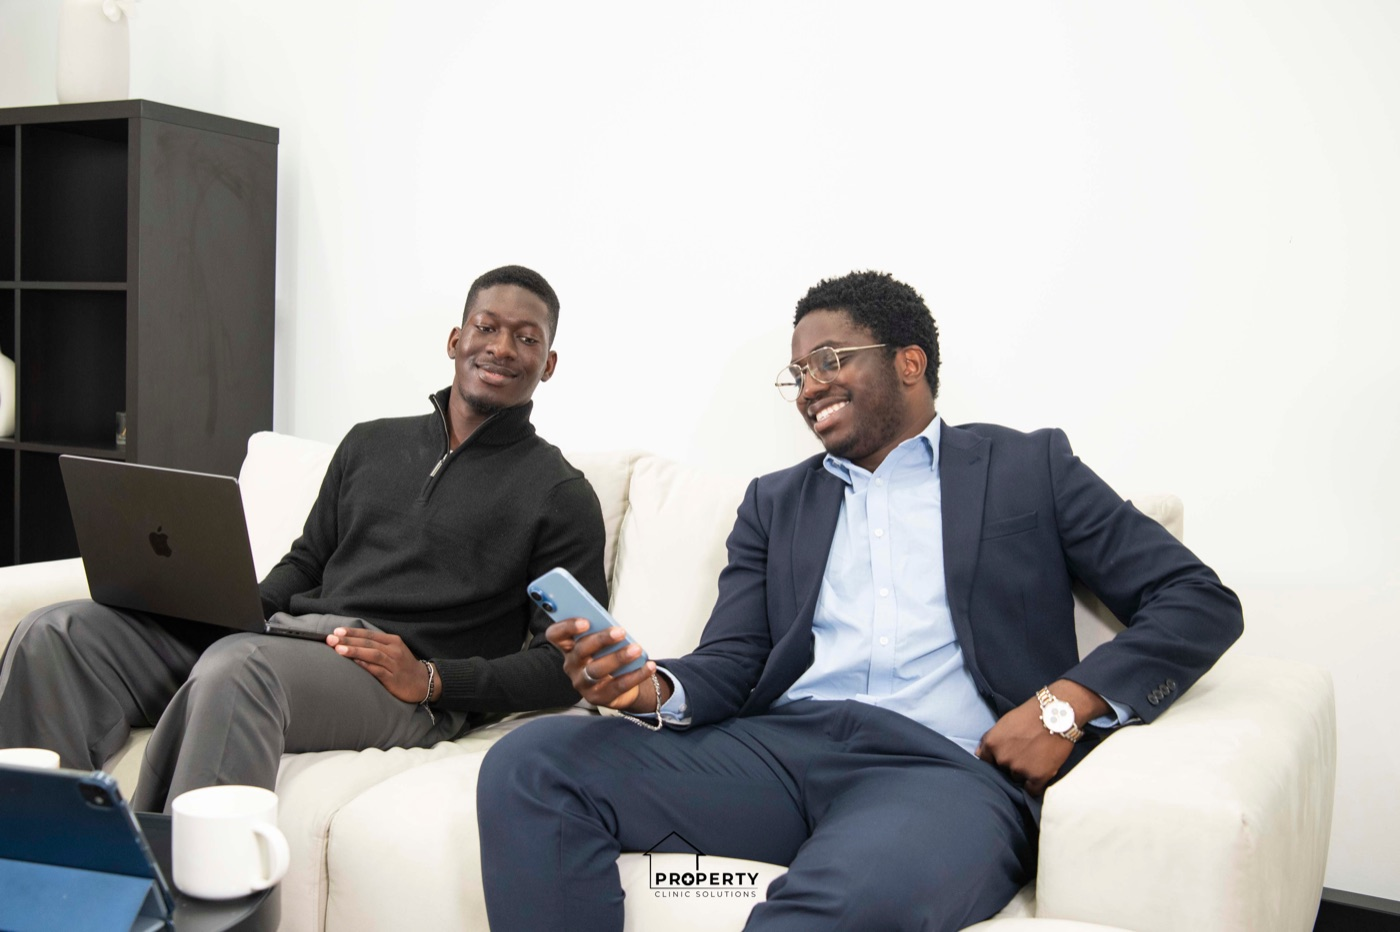
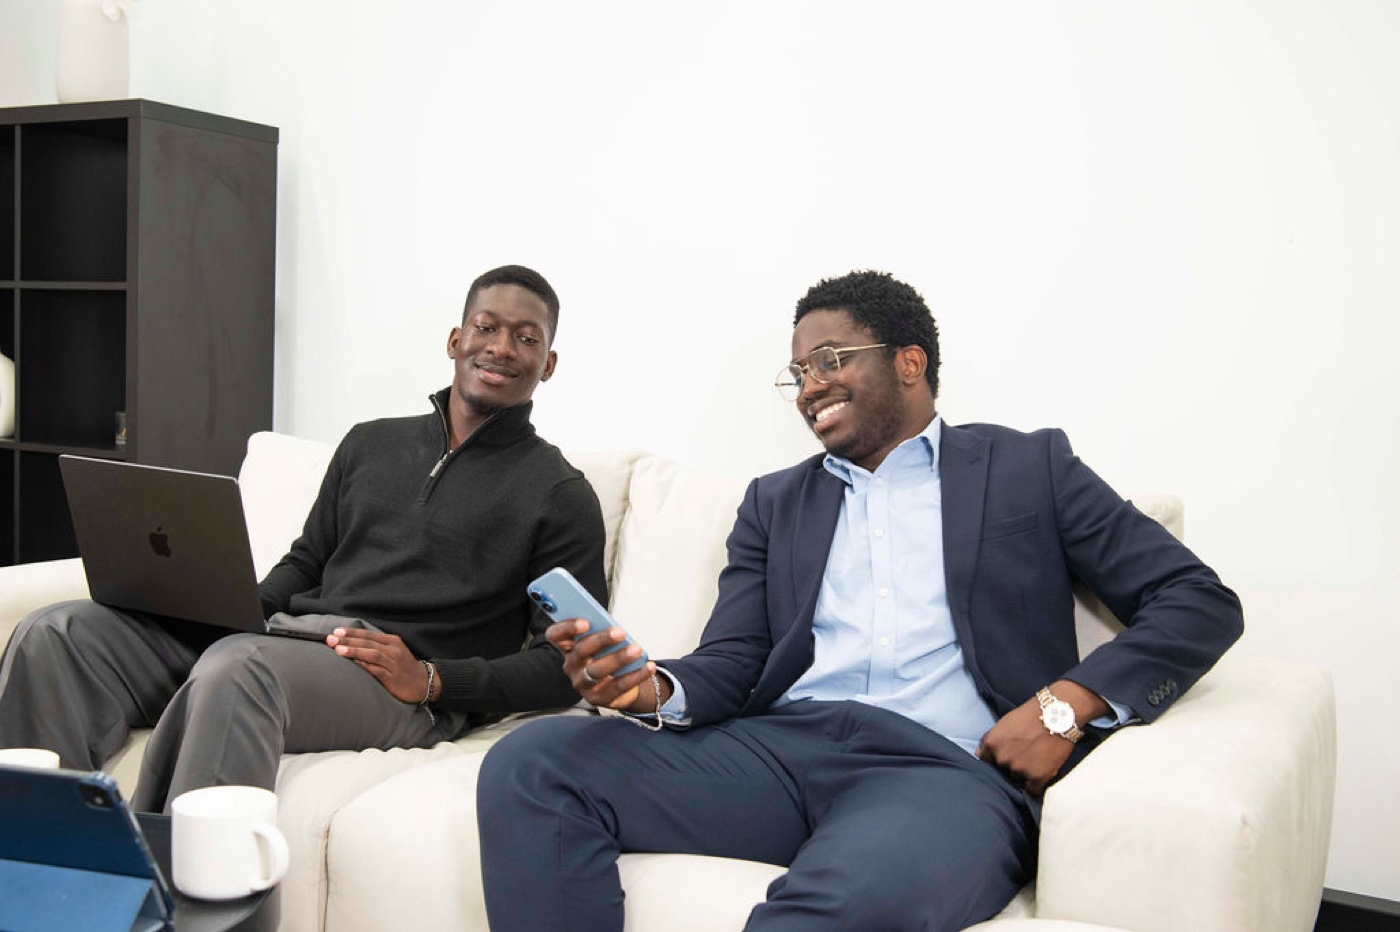
Update Why-PCS image (UK home interior) + refreshed team sofa photo

Changed region(s): [[0.4607, 0.9024, 0.5529, 0.9646]]

diff --git a/calculator.html b/calculator.html
@@ -23,16 +23,16 @@
 <link rel="stylesheet" href="_ds/pcs-design-system-269f6d9a-2c62-49e0-9664-5f46432df18c/tokens/spacing.css" />
 <link rel="stylesheet" href="_ds/pcs-design-system-269f6d9a-2c62-49e0-9664-5f46432df18c/tokens/base.css" />
 <link rel="stylesheet" href="_ds/pcs-design-system-269f6d9a-2c62-49e0-9664-5f46432df18c/styles.css" />
-<link rel="stylesheet" href="site.css?v=1781887479467" />
+<link rel="stylesheet" href="site.css?v=1781888496752" />
 <style> input[type=number]::-webkit-outer-spin-button, input[type=number]::-webkit-inner-spin-button { -webkit-appearance: none; margin: 0; } input[type=number]{ -moz-appearance: textfield; } </style>
 
 <script src="vendor/react.production.min.js"></script>
 <script src="vendor/react-dom.production.min.js"></script>
 <script src="_ds/pcs-design-system-269f6d9a-2c62-49e0-9664-5f46432df18c/_ds_bundle.js"></script>
-<script src="icons.js?v=1781887479467"></script>
-<script src="home-parts.js?v=1781887479467"></script>
-<script src="page-kit.js?v=1781887479467"></script>
-<script src="calculator.js?v=1781887479467"></script>
+<script src="icons.js?v=1781888496752"></script>
+<script src="home-parts.js?v=1781888496752"></script>
+<script src="page-kit.js?v=1781888496752"></script>
+<script src="calculator.js?v=1781888496752"></script>
 
 <script type="application/ld+json">
 { "@context": "https://schema.org", "@type": "FinancialService", "name": "Property Clinic Solutions Limited", "serviceType": "Mortgage calculator", "areaServed": "GB", "url": "https://propertyclinicsolutions.com/calculator", "disclaimer": "Your home may be repossessed if you do not keep up repayments on your mortgage." }

diff --git a/about.html b/about.html
@@ -23,14 +23,14 @@
 <link rel="stylesheet" href="_ds/pcs-design-system-269f6d9a-2c62-49e0-9664-5f46432df18c/tokens/spacing.css" />
 <link rel="stylesheet" href="_ds/pcs-design-system-269f6d9a-2c62-49e0-9664-5f46432df18c/tokens/base.css" />
 <link rel="stylesheet" href="_ds/pcs-design-system-269f6d9a-2c62-49e0-9664-5f46432df18c/styles.css" />
-<link rel="stylesheet" href="site.css?v=1781887479467" />
+<link rel="stylesheet" href="site.css?v=1781888496752" />
 
 <script src="vendor/react.production.min.js"></script>
 <script src="vendor/react-dom.production.min.js"></script>
 <script src="_ds/pcs-design-system-269f6d9a-2c62-49e0-9664-5f46432df18c/_ds_bundle.js"></script>
-<script src="icons.js?v=1781887479467"></script>
-<script src="home-parts.js?v=1781887479467"></script>
-<script src="page-kit.js?v=1781887479467"></script>
+<script src="icons.js?v=1781888496752"></script>
+<script src="home-parts.js?v=1781888496752"></script>
+<script src="page-kit.js?v=1781888496752"></script>
 
 <script type="application/ld+json">
 { "@context": "https://schema.org", "@type": "Organization", "name": "Property Clinic Solutions Limited", "url": "https://propertyclinicsolutions.com", "logo": "assets/logos/pcs-logo-horizontal.svg", "description": "Independent UK mortgage and protection brokerage.", "address": { "@type": "PostalAddress", "streetAddress": "1 Mychell House, Pincott Road", "addressLocality": "London", "postalCode": "SW19 2NN", "addressCountry": "GB" } }

diff --git a/buildings-contents.html b/buildings-contents.html
@@ -23,14 +23,14 @@
 <link rel="stylesheet" href="_ds/pcs-design-system-269f6d9a-2c62-49e0-9664-5f46432df18c/tokens/spacing.css" />
 <link rel="stylesheet" href="_ds/pcs-design-system-269f6d9a-2c62-49e0-9664-5f46432df18c/tokens/base.css" />
 <link rel="stylesheet" href="_ds/pcs-design-system-269f6d9a-2c62-49e0-9664-5f46432df18c/styles.css" />
-<link rel="stylesheet" href="site.css?v=1781887479467" />
+<link rel="stylesheet" href="site.css?v=1781888496752" />
 
 <script src="vendor/react.production.min.js"></script>
 <script src="vendor/react-dom.production.min.js"></script>
 <script src="_ds/pcs-design-system-269f6d9a-2c62-49e0-9664-5f46432df18c/_ds_bundle.js"></script>
-<script src="icons.js?v=1781887479467"></script>
-<script src="home-parts.js?v=1781887479467"></script>
-<script src="page-kit.js?v=1781887479467"></script>
+<script src="icons.js?v=1781888496752"></script>
+<script src="home-parts.js?v=1781888496752"></script>
+<script src="page-kit.js?v=1781888496752"></script>
 
 <script type="application/ld+json">
 { "@context": "https://schema.org", "@type": "FinancialService", "name": "Property Clinic Solutions Limited", "serviceType": "Buildings and contents insurance advice", "areaServed": "GB", "url": "https://propertyclinicsolutions.com/buildings-contents" }

diff --git a/buy-to-let.html b/buy-to-let.html
@@ -23,14 +23,14 @@
 <link rel="stylesheet" href="_ds/pcs-design-system-269f6d9a-2c62-49e0-9664-5f46432df18c/tokens/spacing.css" />
 <link rel="stylesheet" href="_ds/pcs-design-system-269f6d9a-2c62-49e0-9664-5f46432df18c/tokens/base.css" />
 <link rel="stylesheet" href="_ds/pcs-design-system-269f6d9a-2c62-49e0-9664-5f46432df18c/styles.css" />
-<link rel="stylesheet" href="site.css?v=1781887479467" />
+<link rel="stylesheet" href="site.css?v=1781888496752" />
 
 <script src="vendor/react.production.min.js"></script>
 <script src="vendor/react-dom.production.min.js"></script>
 <script src="_ds/pcs-design-system-269f6d9a-2c62-49e0-9664-5f46432df18c/_ds_bundle.js"></script>
-<script src="icons.js?v=1781887479467"></script>
-<script src="home-parts.js?v=1781887479467"></script>
-<script src="page-kit.js?v=1781887479467"></script>
+<script src="icons.js?v=1781888496752"></script>
+<script src="home-parts.js?v=1781888496752"></script>
+<script src="page-kit.js?v=1781888496752"></script>
 
 <script type="application/ld+json">
 { "@context": "https://schema.org", "@type": "FinancialService", "name": "Property Clinic Solutions Limited", "serviceType": "Buy to let mortgage advice", "areaServed": "GB", "url": "https://propertyclinicsolutions.com/buy-to-let", "disclaimer": "Your home may be repossessed if you do not keep up repayments on your mortgage. Most buy-to-let mortgages are not regulated by the Financial Conduct Authority." }

diff --git a/complaints.html b/complaints.html
@@ -19,14 +19,14 @@
 <link rel="stylesheet" href="_ds/pcs-design-system-269f6d9a-2c62-49e0-9664-5f46432df18c/tokens/spacing.css" />
 <link rel="stylesheet" href="_ds/pcs-design-system-269f6d9a-2c62-49e0-9664-5f46432df18c/tokens/base.css" />
 <link rel="stylesheet" href="_ds/pcs-design-system-269f6d9a-2c62-49e0-9664-5f46432df18c/styles.css" />
-<link rel="stylesheet" href="site.css?v=1781887479467" />
+<link rel="stylesheet" href="site.css?v=1781888496752" />
 
 <script src="vendor/react.production.min.js"></script>
 <script src="vendor/react-dom.production.min.js"></script>
 <script src="_ds/pcs-design-system-269f6d9a-2c62-49e0-9664-5f46432df18c/_ds_bundle.js"></script>
-<script src="icons.js?v=1781887479467"></script>
-<script src="home-parts.js?v=1781887479467"></script>
-<script src="page-kit.js?v=1781887479467"></script>
+<script src="icons.js?v=1781888496752"></script>
+<script src="home-parts.js?v=1781888496752"></script>
+<script src="page-kit.js?v=1781888496752"></script>
 </head>
 <body>
 <a href="#main" class="pcs-skip">Skip to content</a>

diff --git a/contact.html b/contact.html
@@ -23,7 +23,7 @@
 <link rel="stylesheet" href="_ds/pcs-design-system-269f6d9a-2c62-49e0-9664-5f46432df18c/tokens/spacing.css" />
 <link rel="stylesheet" href="_ds/pcs-design-system-269f6d9a-2c62-49e0-9664-5f46432df18c/tokens/base.css" />
 <link rel="stylesheet" href="_ds/pcs-design-system-269f6d9a-2c62-49e0-9664-5f46432df18c/styles.css" />
-<link rel="stylesheet" href="site.css?v=1781887479467" />
+<link rel="stylesheet" href="site.css?v=1781888496752" />
 <style>
   .pcs-textarea { width: 100%; min-height: 120px; resize: vertical; font: 400 16px/1.5 var(--font-sans); color: var(--text-strong);
     background: #fff; border: 1px solid var(--border-strong, #D3D7E0); border-radius: 12px; padding: 12px 14px; }
@@ -35,9 +35,9 @@
 <script src="vendor/react.production.min.js"></script>
 <script src="vendor/react-dom.production.min.js"></script>
 <script src="_ds/pcs-design-system-269f6d9a-2c62-49e0-9664-5f46432df18c/_ds_bundle.js"></script>
-<script src="icons.js?v=1781887479467"></script>
-<script src="home-parts.js?v=1781887479467"></script>
-<script src="page-kit.js?v=1781887479467"></script>
+<script src="icons.js?v=1781888496752"></script>
+<script src="home-parts.js?v=1781888496752"></script>
+<script src="page-kit.js?v=1781888496752"></script>
 
 <script type="application/ld+json">
 { "@context": "https://schema.org", "@type": "FinancialService", "name": "Property Clinic Solutions Limited", "areaServed": "GB", "url": "https://propertyclinicsolutions.com/contact", "telephone": "+44 333 404 0589", "email": "[email redacted]", "address": { "@type": "PostalAddress", "streetAddress": "1 Mychell House, Pincott Road", "addressLocality": "London", "postalCode": "SW19 2NN", "addressCountry": "GB" } }

diff --git a/cookie-policy.html b/cookie-policy.html
@@ -19,14 +19,14 @@
 <link rel="stylesheet" href="_ds/pcs-design-system-269f6d9a-2c62-49e0-9664-5f46432df18c/tokens/spacing.css" />
 <link rel="stylesheet" href="_ds/pcs-design-system-269f6d9a-2c62-49e0-9664-5f46432df18c/tokens/base.css" />
 <link rel="stylesheet" href="_ds/pcs-design-system-269f6d9a-2c62-49e0-9664-5f46432df18c/styles.css" />
-<link rel="stylesheet" href="site.css?v=1781887479467" />
+<link rel="stylesheet" href="site.css?v=1781888496752" />
 
 <script src="vendor/react.production.min.js"></script>
 <script src="vendor/react-dom.production.min.js"></script>
 <script src="_ds/pcs-design-system-269f6d9a-2c62-49e0-9664-5f46432df18c/_ds_bundle.js"></script>
-<script src="icons.js?v=1781887479467"></script>
-<script src="home-parts.js?v=1781887479467"></script>
-<script src="page-kit.js?v=1781887479467"></script>
+<script src="icons.js?v=1781888496752"></script>
+<script src="home-parts.js?v=1781888496752"></script>
+<script src="page-kit.js?v=1781888496752"></script>
 </head>
 <body>
 <a href="#main" class="pcs-skip">Skip to content</a>

diff --git a/critical-illness.html b/critical-illness.html
@@ -23,14 +23,14 @@
 <link rel="stylesheet" href="_ds/pcs-design-system-269f6d9a-2c62-49e0-9664-5f46432df18c/tokens/spacing.css" />
 <link rel="stylesheet" href="_ds/pcs-design-system-269f6d9a-2c62-49e0-9664-5f46432df18c/tokens/base.css" />
 <link rel="stylesheet" href="_ds/pcs-design-system-269f6d9a-2c62-49e0-9664-5f46432df18c/styles.css" />
-<link rel="stylesheet" href="site.css?v=1781887479467" />
+<link rel="stylesheet" href="site.css?v=1781888496752" />
 
 <script src="vendor/react.production.min.js"></script>
 <script src="vendor/react-dom.production.min.js"></script>
 <script src="_ds/pcs-design-system-269f6d9a-2c62-49e0-9664-5f46432df18c/_ds_bundle.js"></script>
-<script src="icons.js?v=1781887479467"></script>
-<script src="home-parts.js?v=1781887479467"></script>
-<script src="page-kit.js?v=1781887479467"></script>
+<script src="icons.js?v=1781888496752"></script>
+<script src="home-parts.js?v=1781888496752"></script>
+<script src="page-kit.js?v=1781888496752"></script>
 
 <script type="application/ld+json">
 { "@context": "https://schema.org", "@type": "FinancialService", "name": "Property Clinic Solutions Limited", "serviceType": "Critical illness cover advice", "areaServed": "GB", "url": "https://propertyclinicsolutions.com/critical-illness" }

diff --git a/events.html b/events.html
@@ -23,14 +23,14 @@
 <link rel="stylesheet" href="_ds/pcs-design-system-269f6d9a-2c62-49e0-9664-5f46432df18c/tokens/spacing.css" />
 <link rel="stylesheet" href="_ds/pcs-design-system-269f6d9a-2c62-49e0-9664-5f46432df18c/tokens/base.css" />
 <link rel="stylesheet" href="_ds/pcs-design-system-269f6d9a-2c62-49e0-9664-5f46432df18c/styles.css" />
-<link rel="stylesheet" href="site.css?v=1781887479467" />
+<link rel="stylesheet" href="site.css?v=1781888496752" />
 
 <script src="vendor/react.production.min.js"></script>
 <script src="vendor/react-dom.production.min.js"></script>
 <script src="_ds/pcs-design-system-269f6d9a-2c62-49e0-9664-5f46432df18c/_ds_bundle.js"></script>
-<script src="icons.js?v=1781887479467"></script>
-<script src="home-parts.js?v=1781887479467"></script>
-<script src="page-kit.js?v=1781887479467"></script>
+<script src="icons.js?v=1781888496752"></script>
+<script src="home-parts.js?v=1781888496752"></script>
+<script src="page-kit.js?v=1781888496752"></script>
 
 <script type="application/ld+json">
 { "@context": "https://schema.org", "@type": "Event", "name": "Empowerment Through Property: Wealth meets Health", "startDate": "2026-08-01", "eventAttendanceMode": "https://schema.org/OfflineEventAttendanceMode", "eventStatus": "https://schema.org/EventScheduled", "location": { "@type": "Place", "name": "Grove House", "address": "76 Hammersmith Grove, London, W6 1NE" }, "organizer": { "@type": "Organization", "name": "Property Clinic Solutions Limited", "url": "https://propertyclinicsolutions.com" }, "description": "A live, in-person event built for landlords, investors, and anyone serious about building wealth through property without sacrificing their health." }

diff --git a/first-time-buyers.html b/first-time-buyers.html
@@ -23,14 +23,14 @@
 <link rel="stylesheet" href="_ds/pcs-design-system-269f6d9a-2c62-49e0-9664-5f46432df18c/tokens/spacing.css" />
 <link rel="stylesheet" href="_ds/pcs-design-system-269f6d9a-2c62-49e0-9664-5f46432df18c/tokens/base.css" />
 <link rel="stylesheet" href="_ds/pcs-design-system-269f6d9a-2c62-49e0-9664-5f46432df18c/styles.css" />
-<link rel="stylesheet" href="site.css?v=1781887479467" />
+<link rel="stylesheet" href="site.css?v=1781888496752" />
 
 <script src="vendor/react.production.min.js"></script>
 <script src="vendor/react-dom.production.min.js"></script>
 <script src="_ds/pcs-design-system-269f6d9a-2c62-49e0-9664-5f46432df18c/_ds_bundle.js"></script>
-<script src="icons.js?v=1781887479467"></script>
-<script src="home-parts.js?v=1781887479467"></script>
-<script src="page-kit.js?v=1781887479467"></script>
+<script src="icons.js?v=1781888496752"></script>
+<script src="home-parts.js?v=1781888496752"></script>
+<script src="page-kit.js?v=1781888496752"></script>
 
 <script type="application/ld+json">
 { "@context": "https://schema.org", "@type": "FinancialService", "name": "Property Clinic Solutions Limited", "serviceType": "First-time buyer mortgage advice", "areaServed": "GB", "url": "https://propertyclinicsolutions.com/first-time-buyers", "disclaimer": "Your home may be repossessed if you do not keep up repayments on your mortgage." }

diff --git a/income-protection.html b/income-protection.html
@@ -23,14 +23,14 @@
 <link rel="stylesheet" href="_ds/pcs-design-system-269f6d9a-2c62-49e0-9664-5f46432df18c/tokens/spacing.css" />
 <link rel="stylesheet" href="_ds/pcs-design-system-269f6d9a-2c62-49e0-9664-5f46432df18c/tokens/base.css" />
 <link rel="stylesheet" href="_ds/pcs-design-system-269f6d9a-2c62-49e0-9664-5f46432df18c/styles.css" />
-<link rel="stylesheet" href="site.css?v=1781887479467" />
+<link rel="stylesheet" href="site.css?v=1781888496752" />
 
 <script src="vendor/react.production.min.js"></script>
 <script src="vendor/react-dom.production.min.js"></script>
 <script src="_ds/pcs-design-system-269f6d9a-2c62-49e0-9664-5f46432df18c/_ds_bundle.js"></script>
-<script src="icons.js?v=1781887479467"></script>
-<script src="home-parts.js?v=1781887479467"></script>
-<script src="page-kit.js?v=1781887479467"></script>
+<script src="icons.js?v=1781888496752"></script>
+<script src="home-parts.js?v=1781888496752"></script>
+<script src="page-kit.js?v=1781888496752"></script>
 
 <script type="application/ld+json">
 { "@context": "https://schema.org", "@type": "FinancialService", "name": "Property Clinic Solutions Limited", "serviceType": "Income protection advice", "areaServed": "GB", "url": "https://propertyclinicsolutions.com/income-protection" }

diff --git a/life-insurance.html b/life-insurance.html
@@ -23,14 +23,14 @@
 <link rel="stylesheet" href="_ds/pcs-design-system-269f6d9a-2c62-49e0-9664-5f46432df18c/tokens/spacing.css" />
 <link rel="stylesheet" href="_ds/pcs-design-system-269f6d9a-2c62-49e0-9664-5f46432df18c/tokens/base.css" />
 <link rel="stylesheet" href="_ds/pcs-design-system-269f6d9a-2c62-49e0-9664-5f46432df18c/styles.css" />
-<link rel="stylesheet" href="site.css?v=1781887479467" />
+<link rel="stylesheet" href="site.css?v=1781888496752" />
 
 <script src="vendor/react.production.min.js"></script>
 <script src="vendor/react-dom.production.min.js"></script>
 <script src="_ds/pcs-design-system-269f6d9a-2c62-49e0-9664-5f46432df18c/_ds_bundle.js"></script>
-<script src="icons.js?v=1781887479467"></script>
-<script src="home-parts.js?v=1781887479467"></script>
-<script src="page-kit.js?v=1781887479467"></script>
+<script src="icons.js?v=1781888496752"></script>
+<script src="home-parts.js?v=1781888496752"></script>
+<script src="page-kit.js?v=1781888496752"></script>
 
 <script type="application/ld+json">
 { "@context": "https://schema.org", "@type": "FinancialService", "name": "Property Clinic Solutions Limited", "serviceType": "Life insurance advice", "areaServed": "GB", "url": "https://propertyclinicsolutions.com/life-insurance" }